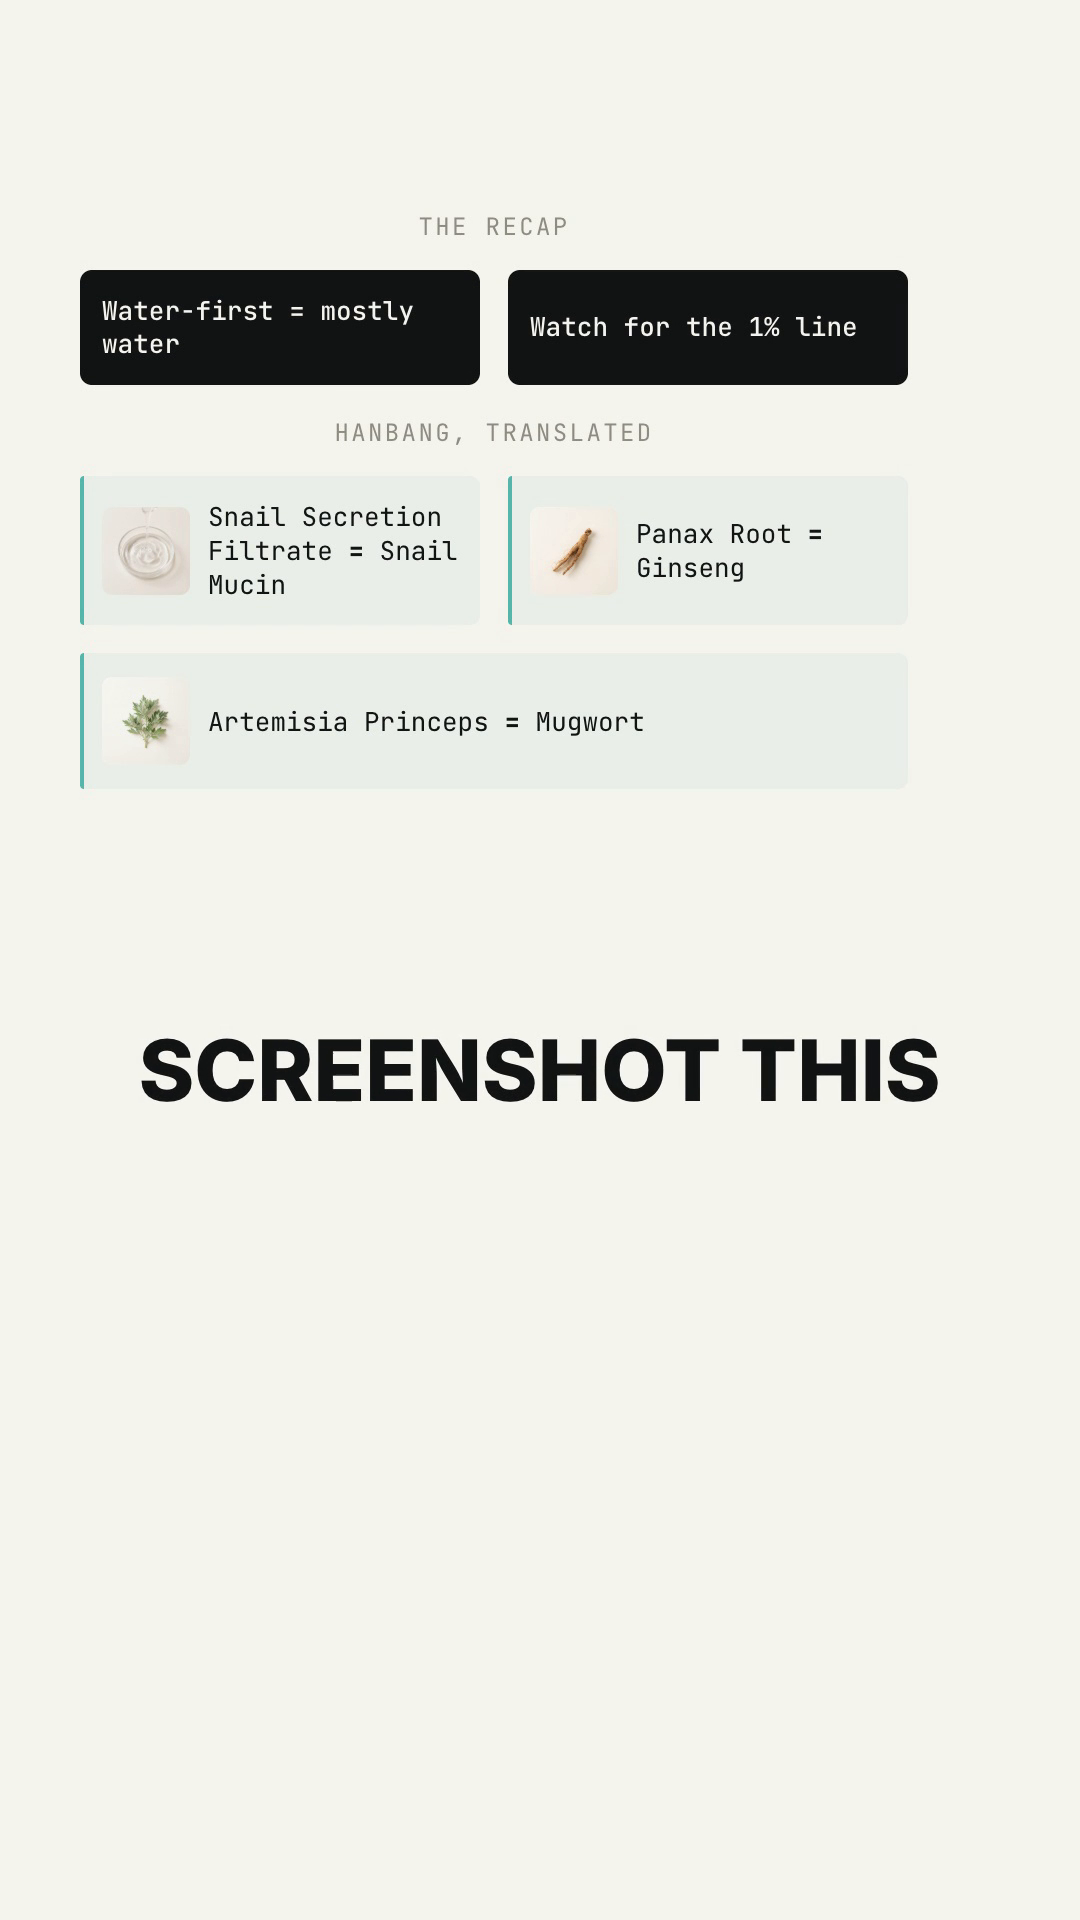
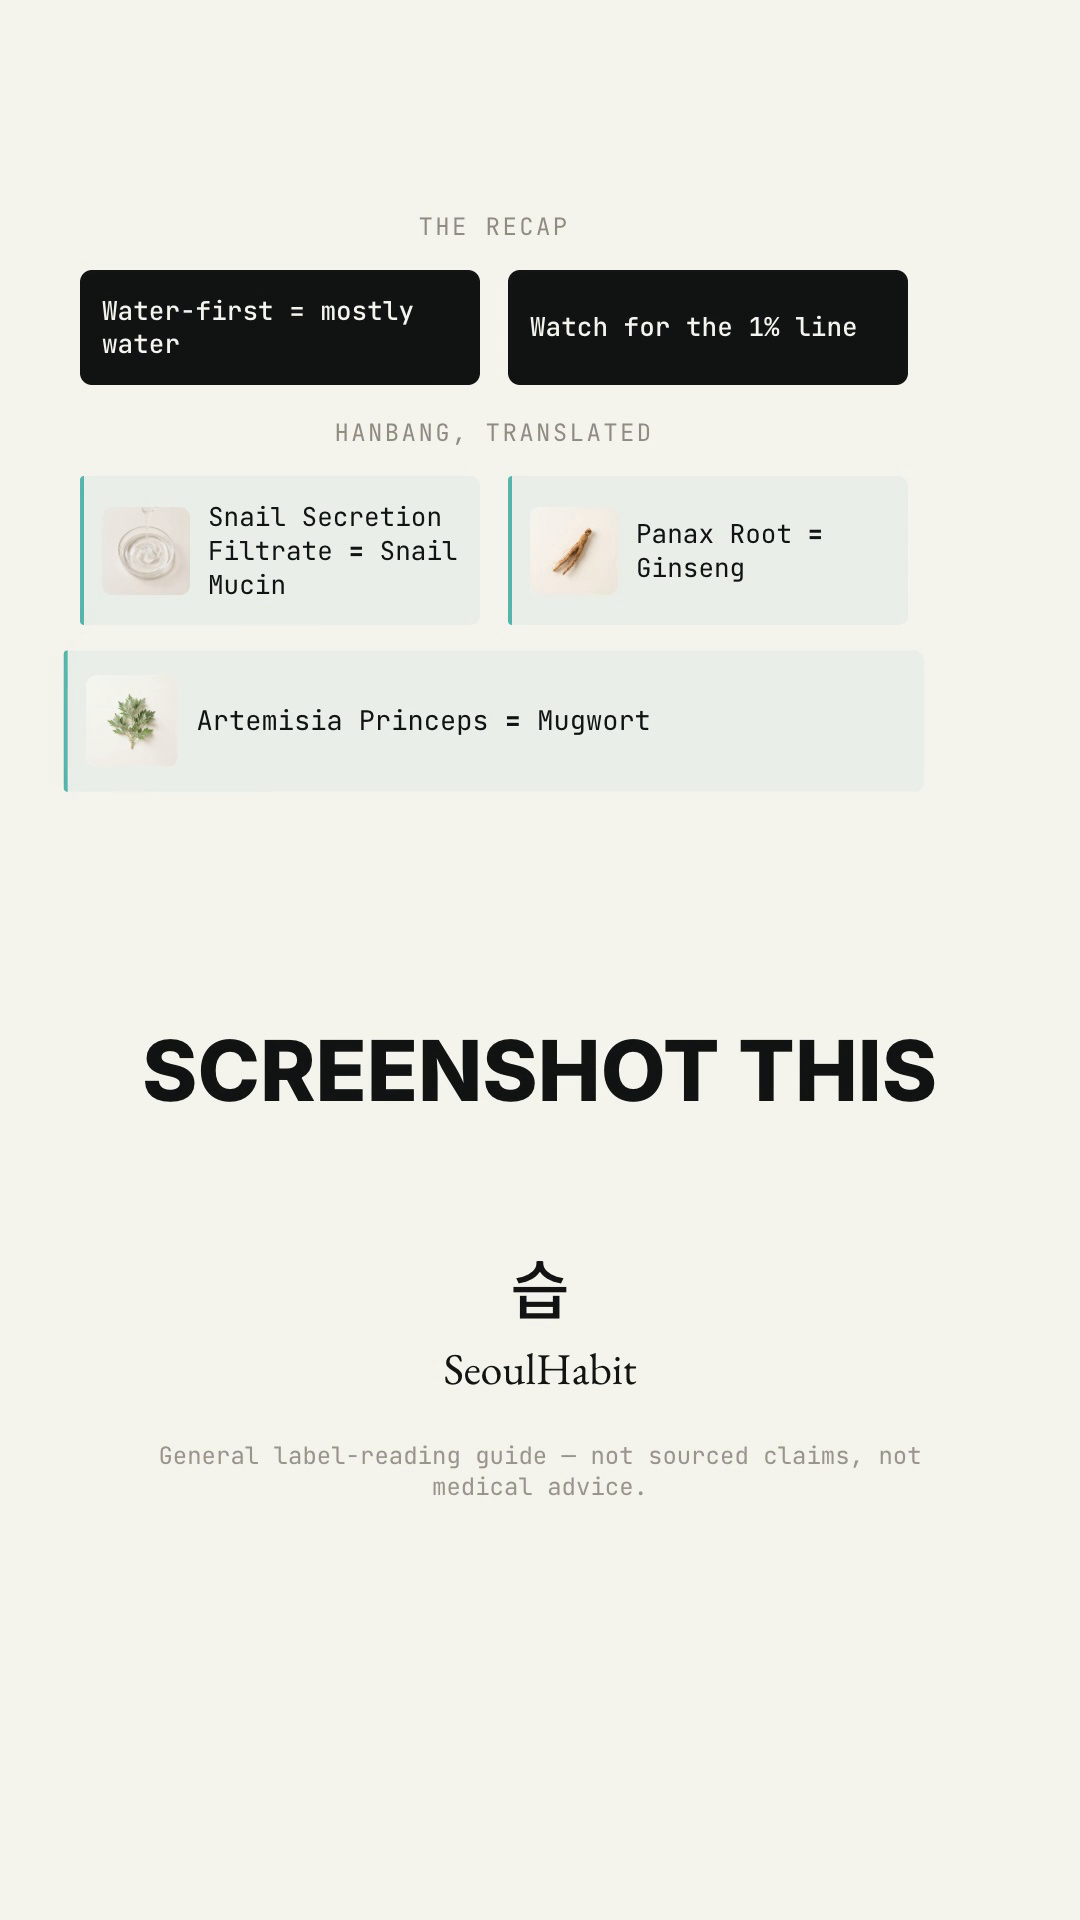
Refresh kbeauty-one-percent-line thumbnails from current (post-round-8) render
Re-pulled all three candidates + thumbnail-final from the 21-40-00 render:
visual-equation now shows round 8's 70% Centella recap (was the stale
pre-round-8 empty-canvas frame), high-value-promise re-pulled at the fully
settled endcard beat (t=113.0, before the CTA countdown replaces the
headline), curiosity-gap/hook refreshed for provenance (frame unchanged,
PSNR 52.8dB vs prior source). Grading chain verified byte-identical
against the prior graded hook before reuse.

diff --git a/videos/kbeauty-one-percent-line/STORYBOARD.md b/videos/kbeauty-one-percent-line/STORYBOARD.md
@@ -1322,3 +1322,30 @@ the current `index.html`, not hand-maintained.)
     `renders/kbeauty-one-percent-line_2026-08-29_21-40-00.mp4`, 115.5s,
     1080x1920, -15.0 LUFS / -1.3dBTP (audio unchanged — visual-only
     round). Superseded render removed.
+
+- **2026-08-29 (thumbnail refresh) — re-pulled every `assets/thumbnail/`
+  candidate from the current render** (`_21-40-00.mp4`), closing the
+  staleness the previous thumbnail entry itself flagged: the "Visual
+  Equation" candidate predated round 8's Frame 3 rework. All three
+  candidates + `thumbnail-final.png` now come from the current render:
+  - `candidate-visual-equation` re-pulled at t=28.5s (was t=26s) — now
+    shows the round-8 state: "70% CENTELLA EXTRACT" recap over the
+    water+plant equation in the enlarged 900px zone, instead of the two
+    small cards floating under ~1050px of blank canvas.
+  - `candidate-high-value-promise` re-pulled at t=113.0s — the endcard's
+    fully settled state (recap chips + all 3 Hanbang rows + "SCREENSHOT
+    THIS" + 습 SeoulHabit lockup + disclaimer). Checked t=114.5s too and
+    rejected it: the CTA countdown ("1") has replaced the headline by
+    then. The old candidate was an earlier, pre-lockup beat.
+  - `candidate-curiosity-gap` / `hook-frame-*` / `thumbnail-final.png`
+    re-pulled at the same t=2.7s payoff moment; PSNR vs the old source
+    measured 52.8dB (codec noise only — Frame 1 unchanged since), so
+    these are visually identical, refreshed for provenance consistency.
+  - Grading chain verified before reuse rather than assumed: applying
+    `eq=contrast=1.06:saturation=1.05,unsharp=5:5:0.5` to the prior
+    source byte-identically reproduced the prior `hook-frame-graded.png`
+    (PSNR = inf), confirming that as the exact established per-video
+    grade; same chain applied to all refreshed finals (still no vignette,
+    per the earlier light-background lesson). `thumbnail-final.png`
+    remains the hook payoff frame pending the creator's pick among the
+    three candidates.
